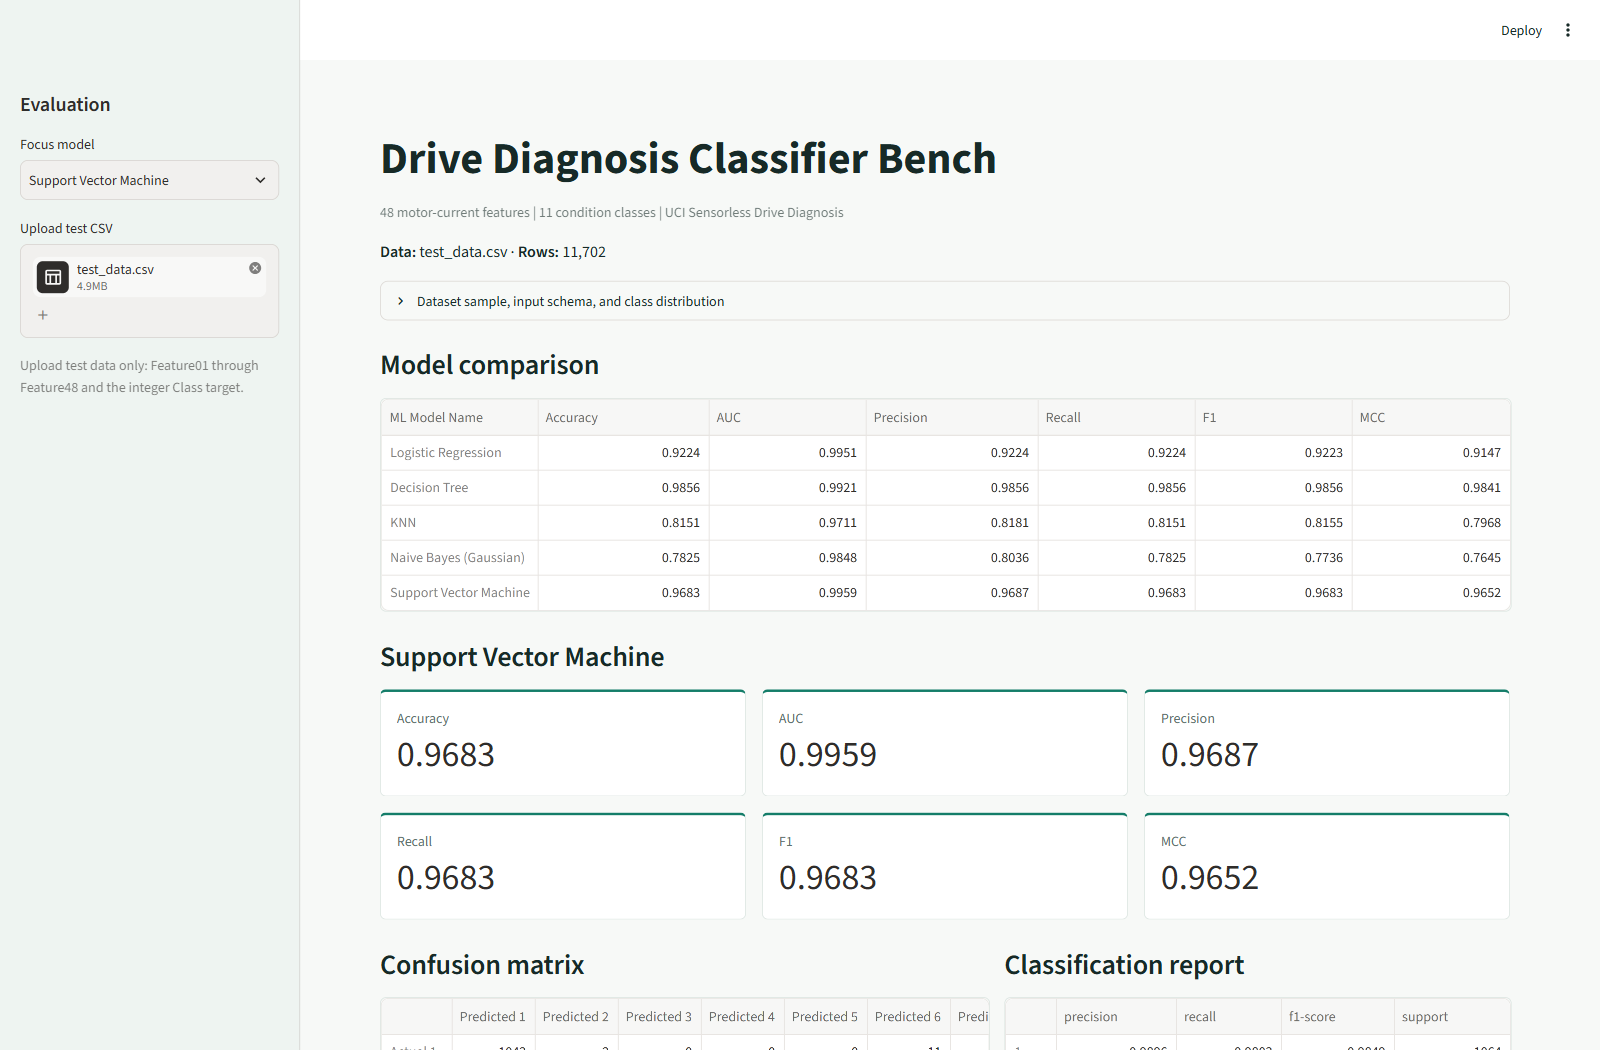
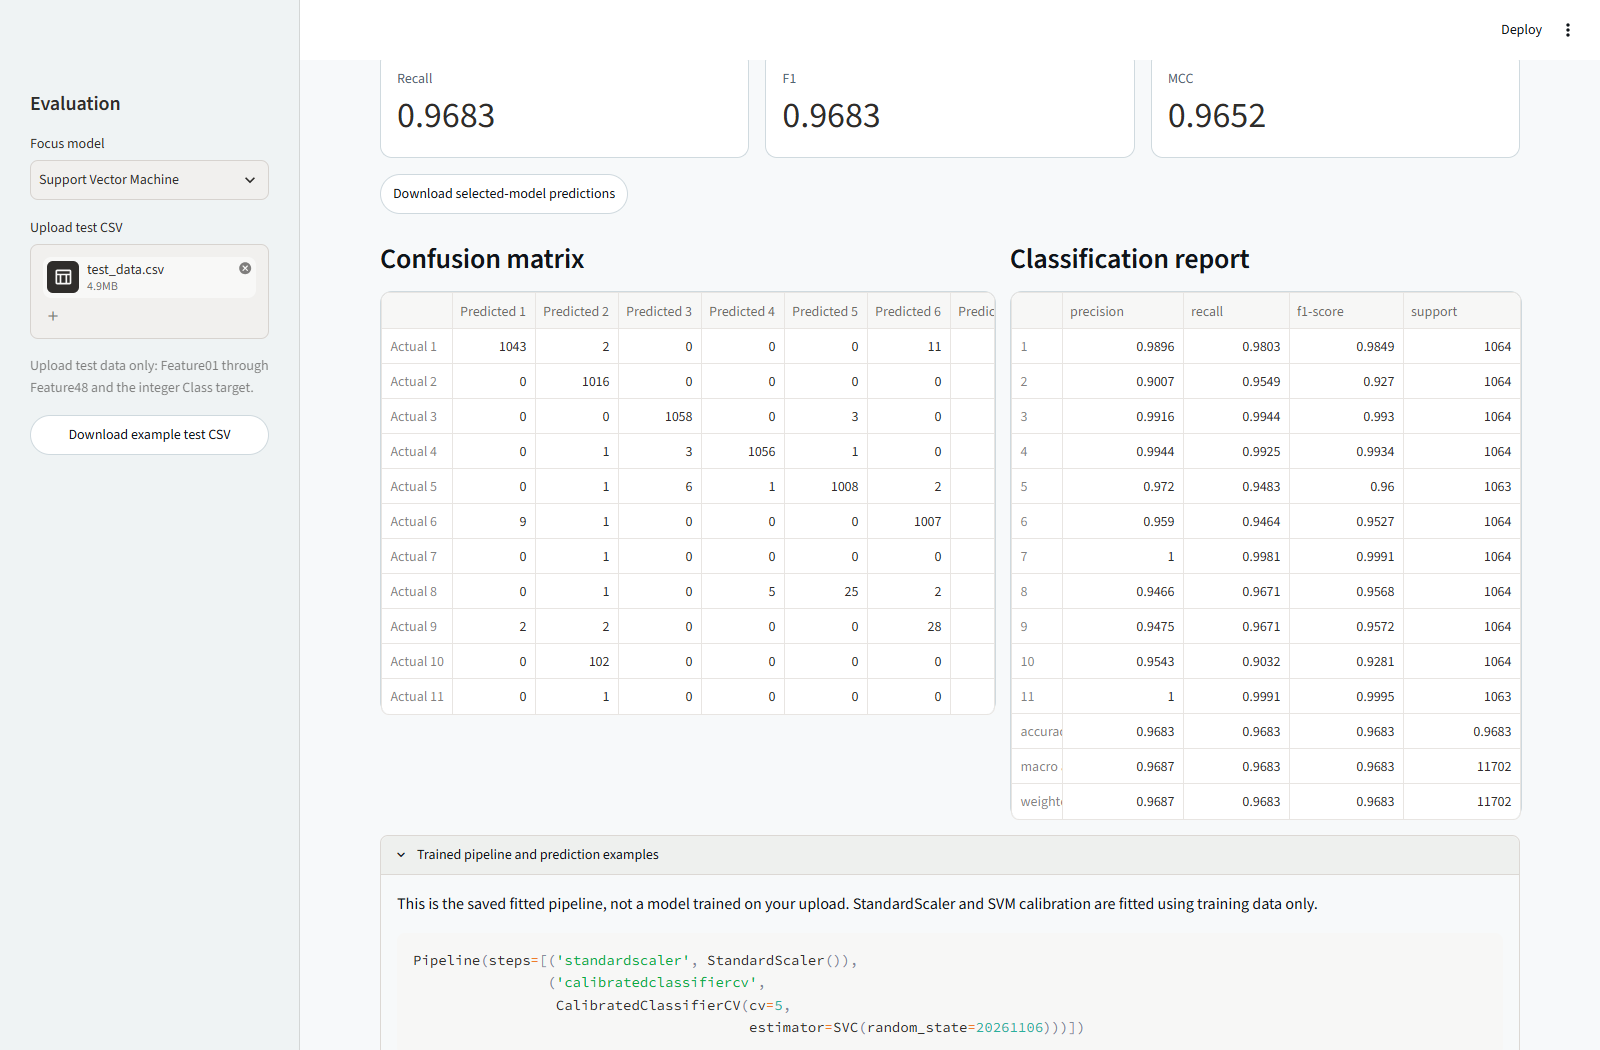
feat: refresh dashboard theme and document architecture
Add architecture and troubleshooting guidance, and refresh the app evidence screenshots.

diff --git a/app.py b/app.py
@@ -81,21 +81,30 @@ def main() -> None:
         """
         <style>
         :root {
-            --ink: #172a27;
-            --muted: #60716d;
-            --accent: #147d69;
-            --accent-soft: #e4f2ed;
-            --rule: #dce5e1;
+            --ink: #0f1419;
+            --muted: #536471;
+            --accent: #1d9bf0;
+            --accent-soft: #e8f5fd;
+            --rule: #cfd9de;
         }
-        [data-testid="stAppViewContainer"] { background: #f7f9f7; color: var(--ink); }
-        [data-testid="stSidebar"] { background: #eef4f1; border-right: 1px solid var(--rule); }
-        h1, h2, h3 { color: var(--ink); font-family: Georgia, serif; }
+        [data-testid="stAppViewContainer"] { background: #f7f9fa; color: var(--ink); }
+        [data-testid="stSidebar"] { background: #eff3f4; border-right: 1px solid var(--rule); }
+        h1, h2, h3 { color: var(--ink); font-family: Arial, sans-serif; }
         [data-testid="stMetric"] {
             background: white; border: 1px solid var(--rule); border-top: 3px solid var(--accent);
-            padding: 14px 16px; border-radius: 6px;
+            padding: 14px 16px; border-radius: 12px;
         }
         [data-testid="stMetricLabel"] { color: var(--muted); }
-        div[data-testid="stDataFrame"] { border: 1px solid var(--rule); border-radius: 6px; }
+        div[data-testid="stDataFrame"] { border: 1px solid var(--rule); border-radius: 12px; }
+        [data-testid="stDownloadButton"] button {
+            border-color: var(--rule);
+            color: var(--ink);
+            border-radius: 999px;
+        }
+        [data-testid="stDownloadButton"] button:hover {
+            border-color: var(--accent);
+            color: var(--accent);
+        }
         @media (max-width: 700px) {
             [data-testid="stAppViewContainer"] .main .block-container {
                 padding: 1.25rem 1rem 2rem;

diff --git a/README.md b/README.md
@@ -193,6 +193,33 @@ repeated measurements under multiple operating conditions, but the published
 table does not provide a verified session/group identifier for a grouped split.
 High held-out scores must be interpreted within that limitation.
 
+## Application Architecture
+
+The project separates source-data preparation, model training, and interactive
+evaluation so the Streamlit app never fits a model from an uploaded test file.
+
+1. [prepare_data.py](./prepare_data.py) downloads the original UCI archive,
+   verifies its schema and values, assigns names to the 48 features, and writes
+   a stratified training/test split.
+2. [train_models.py](./train_models.py) validates both CSVs, builds five
+   scikit-learn pipelines, fits each pipeline on training rows, and evaluates
+   it on the held-out test rows. It saves the fitted pipelines under `model/`
+   and writes full-precision metrics to `model_metrics.csv`.
+3. [app.py](./app.py) reads the bundled test data and saved pipelines. A user
+   can keep the bundled test set or upload a labeled CSV with the same feature
+   schema. The app checks columns, numeric feature values, missing values, and
+   class labels before evaluating all five models.
+4. The app displays the comparison, metrics for the selected focus model, its
+   confusion matrix and classification report, and example predictions. It can
+   download the example test CSV, metric comparison, and selected-model
+   predictions. Upload evaluation does not retrain or overwrite model files.
+
+Streamlit caches the bundled test data and loaded model objects. Model
+comparisons are cached by evaluation data and saved-model modification times,
+so changing the focus model does not repeat inference across all test rows.
+`test_project.py` checks data parsing, split and model invariants, saved metrics,
+and each model selection in the Streamlit app.
+
 ## Experiment Workflow
 
 1. Install pinned dependencies in Python 3.11.
@@ -259,6 +286,60 @@ need verification; local timing does not certify acceptable cloud response time.
 
 Use pinned dependencies, including `scikit-learn==1.9.1`, to reproduce the saved
 models. Another scikit-learn version may warn or fail to reproduce behavior.
+
+## Common Troubleshooting
+
+### UCI Download or Dataset Preparation Fails
+
+`prepare_data.py` needs network access to the UCI archive. If the request times
+out or the archive cannot be reached, check the network and try again. The
+repository includes `test_data.csv` and fitted models for running the app; the
+training data file is generated locally and ignored by Git. To regenerate the
+split for retraining or regression tests, run:
+
+```powershell
+.\.venv\Scripts\python.exe prepare_data.py
+```
+
+### Uploaded CSV Is Rejected
+
+The upload must be a labeled test set with columns `Feature01` through
+`Feature48` in that order, followed by `Class`. Keep values numeric and finite,
+remove missing cells, and use class codes 1 through 11. Evaluation requires all
+11 classes so multiclass AUC can be calculated. Use the app's example CSV to
+check the expected column names and order.
+
+### Saved Model Is Missing or Does Not Match the Data
+
+The app loads the five `.joblib` files from `model/` and checks each pipeline's
+feature names and class labels before evaluation. Restore the complete `model/`
+folder from the repository. If models need to be rebuilt, first regenerate
+`train_data.csv` and `test_data.csv`, then run:
+
+```powershell
+.\.venv\Scripts\python.exe train_models.py
+```
+
+### Model Loading Warns or Fails After Installing Packages
+
+Install the pinned packages from `requirements.txt` in the same Python
+environment used to run Streamlit. The saved scikit-learn pipelines may not be
+compatible with other scikit-learn versions.
+
+### The First App Evaluation Takes a While
+
+On its first run, the app evaluates five saved models across the selected test
+data. The calibrated SVM can take longer than the other pipelines. Later focus
+model changes reuse cached comparisons. For a smaller trial, prepare a separate
+labeled CSV that still contains all 11 classes and the full 49-column schema.
+
+### Streamlit Community Cloud Does Not Start the App
+
+Confirm that the deployed branch contains `app.py`, `requirements.txt`, all
+five files in `model/`, and `test_data.csv`. Check the Cloud app logs for the
+first import or model-loading error, then confirm the deployment points to the
+correct repository, branch, and app file. Local success does not confirm that
+the public deployment is current or reachable.
 
 For BITS Virtual Lab, install the same dependencies and run preparation, training,
 and the app there. If downloads are blocked, transfer the generated CSVs and
